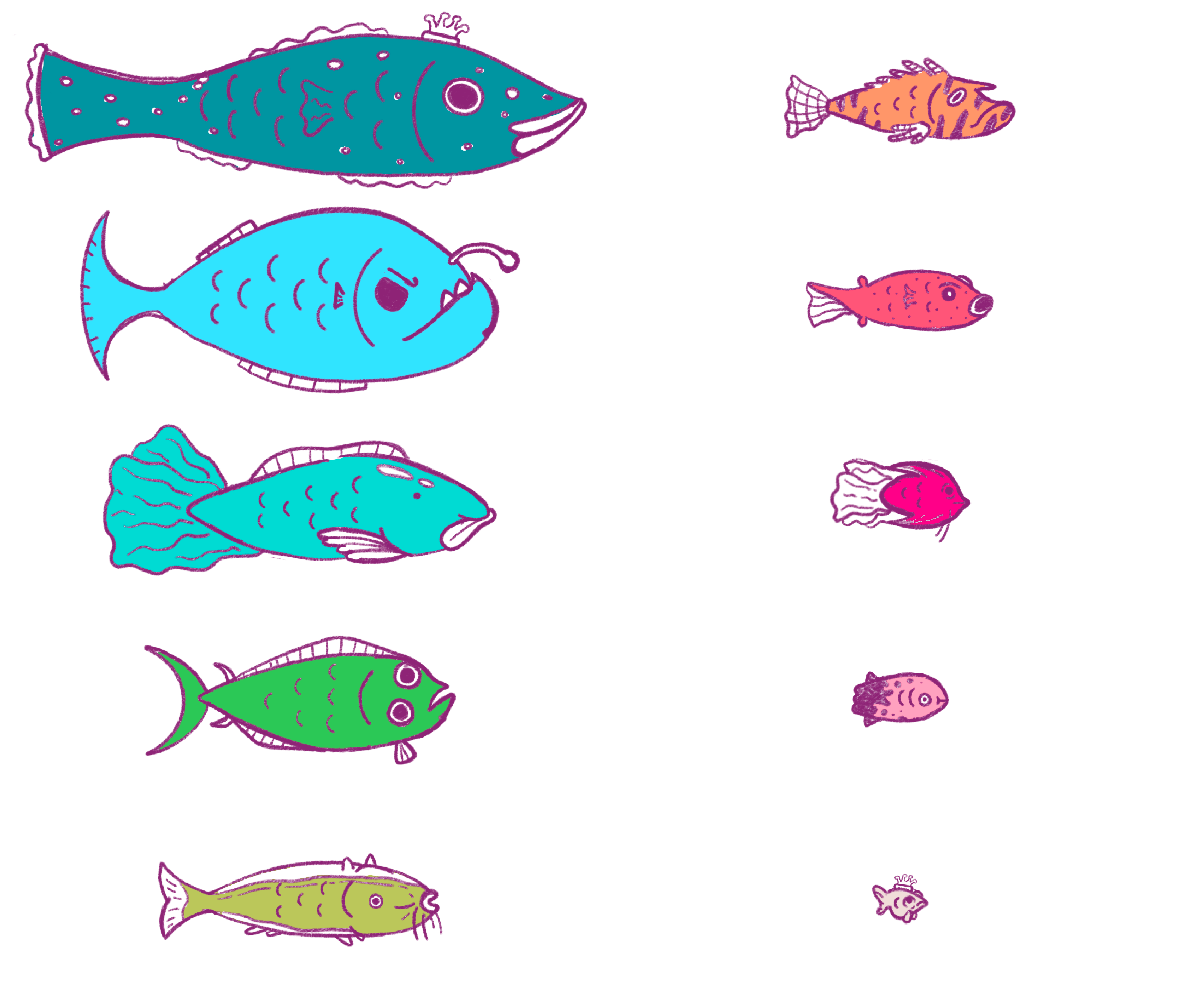
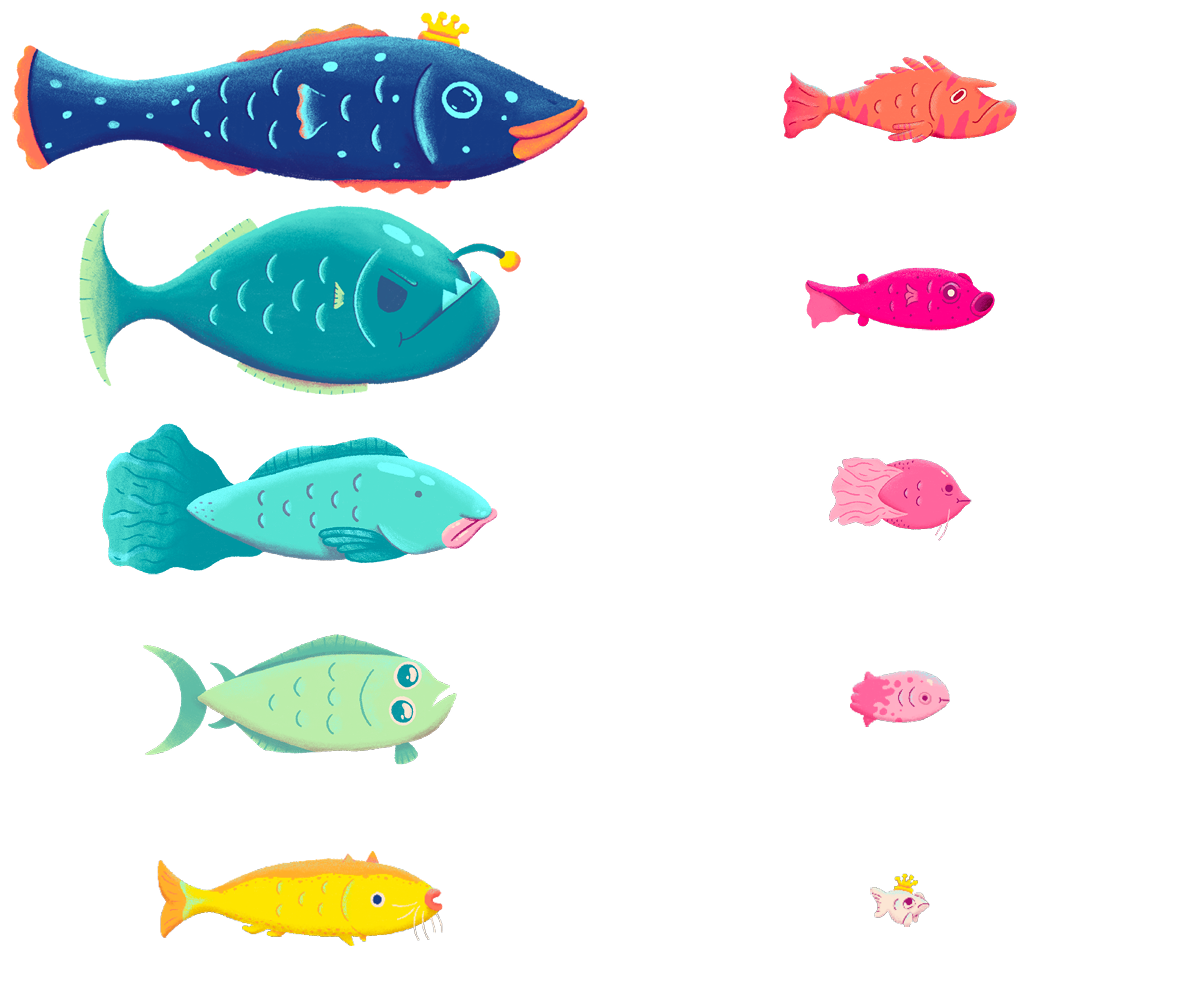
swapped out images for fish and hook

diff --git a/src/core.rs b/src/core.rs
@@ -28,10 +28,12 @@ pub struct ImageHandles {
     pub bear_handle: Option<Handle<Image>>,
     pub stack_handle: Option<Handle<Image>>,
     pub water_handle: Option<Handle<Image>>,
+    pub misc_handle: Option<Handle<Image>>,
 
     pub bear_atlas_handle: Option<Handle<TextureAtlas>>,
     pub fish_atlas_handle: Option<Handle<TextureAtlas>>,
     pub stack_atlas_handle: Option<Handle<TextureAtlas>>,
+    pub misc_atlas_handle: Option<Handle<TextureAtlas>>
 }
 
 
@@ -82,6 +84,19 @@ fn load_images(
     let bear_atlas_handle = atlases.add(bear_atlas);
     images.bear_handle = Some(bear_handle);
     images.bear_atlas_handle = Some(bear_atlas_handle);
+
+    let misc_handle = asset_server.load("misc.png");
+    let misc_atlas = TextureAtlas::from_grid(
+        misc_handle.clone(),
+        Vec2::new(600.0, 200.0),
+        2, 
+        5,
+        None,
+        None,
+    );
+    let misc_atlas_handle = atlases.add(misc_atlas);
+    images.misc_handle = Some(misc_handle);
+    images.misc_atlas_handle = Some(misc_atlas_handle);
 }
 
 fn add_camera(mut commands: Commands) {
@@ -109,7 +124,7 @@ fn add_water(
     let image_handle = images.water_handle.as_ref().expect("images should be loaded");
     commands.spawn(
         SpriteBundle {
-            sprite: Sprite { color: Color::Rgba { red: 1.0, green: 1.0, blue: 1.0, alpha: 0.3 }, ..default() },
+            sprite: Sprite { color: Color::Rgba { red: 1.0, green: 1.0, blue: 1.0, alpha: 0.2 }, ..default() },
             texture: image_handle.clone(),
             transform: Transform::from_translation(Vec3::new(WATER_POS.x, WATER_POS.y - 65.0, 1.0)),
             ..default()

diff --git a/src/hook.rs b/src/hook.rs
@@ -1,5 +1,6 @@
 use bevy::prelude::*;
 use crate::constants::*;
+use crate::core::ImageHandles;
 use crate::fish::*;
 use crate::physics::*;
 
@@ -133,19 +134,27 @@ fn update_hook_while_waiting(
 
 fn add_hook(
     mut commands: Commands,
-    asset_server: Res<AssetServer>
+    images: Res<ImageHandles>
 ) {
     commands.spawn((
-        SpriteBundle {
-            texture: asset_server.load("hook.png"),
-            transform: Transform::from_scale(Vec3::new(2.0, 2.0, 1.0)),
-            ..default()
-        },
+        SpatialBundle::from_transform(Transform::from_translation(Vec3::ZERO)),
         Hook {
             move_speed: 300.0
         },
-        WaitingToBeCast
-    ));
+        WaitingToBeCast,
+    )).with_children(|parent| {
+        parent.spawn(
+            SpriteSheetBundle {
+                texture_atlas: images.misc_atlas_handle.as_ref().expect("Images should be loaded").clone(),
+                sprite: TextureAtlasSprite::new(6),
+                transform: Transform {
+                    translation: Vec3::new(-6.0, 0.0, 0.0),
+                    scale: Vec3::new(2.0, 2.0, 1.0),
+                    ..default()
+                },
+                ..default()
+            });
+    });
 }
 
 fn turn_hook_pink(

diff --git a/src/fish.rs b/src/fish.rs
@@ -112,7 +112,7 @@ fn add_fish(
     mut commands: Commands,
 ) {
     let fish_atlas_handle = images.fish_atlas_handle.as_ref().expect("Images should be loaded");
-    let height_offset = 100.0;
+    let height_offset = 250.0;
 
     let box_width = WATER_SIZE.x;
     let box_height = WATER_SIZE.y - height_offset;
@@ -127,7 +127,7 @@ fn add_fish(
         let fish_size = FISH_ATLAS_SIZES[*fish_index];
         let fish_half_width = (fish_size - 1) as f32 * 20.0 + 30.0;
         let pos_x = rand::random::<f32>() * box_width - (box_width / 2.0) + WATER_POS.x;
-        let pos_y = WATER_POS.y - (box_height - height_offset) / 2.0 - height_offset + lane_height * pos_index as f32 + rng.gen::<f32>() * lane_height * 0.8;
+        let pos_y = WATER_POS.y - (box_height - height_offset) / 2.0 - height_offset / 2.0 + lane_height * pos_index as f32 + rng.gen::<f32>() * lane_height * 0.8;
         commands.spawn((
             SpriteSheetBundle {
                 texture_atlas: fish_atlas_handle.clone(),

diff --git a/src/bear.rs b/src/bear.rs
@@ -54,8 +54,8 @@ impl BearAnimations {
             state: BearAnimationStates::Fishing,
             timer: Timer::from_seconds(3.0, TimerMode::Repeating),
             rate_multiplier: 1.0,
-            stretch_x: 0.05,
-            stretch_y: -0.05,
+            stretch_x: 0.03,
+            stretch_y: -0.03,
         }
     }
 
@@ -64,8 +64,8 @@ impl BearAnimations {
             state: BearAnimationStates::Waiting,
             timer: Timer::from_seconds(3.0, TimerMode::Repeating),
             rate_multiplier: 1.0,
-            stretch_x: 0.1,
-            stretch_y: -0.1,
+            stretch_x: 0.05,
+            stretch_y: -0.05,
         }
     }
 
